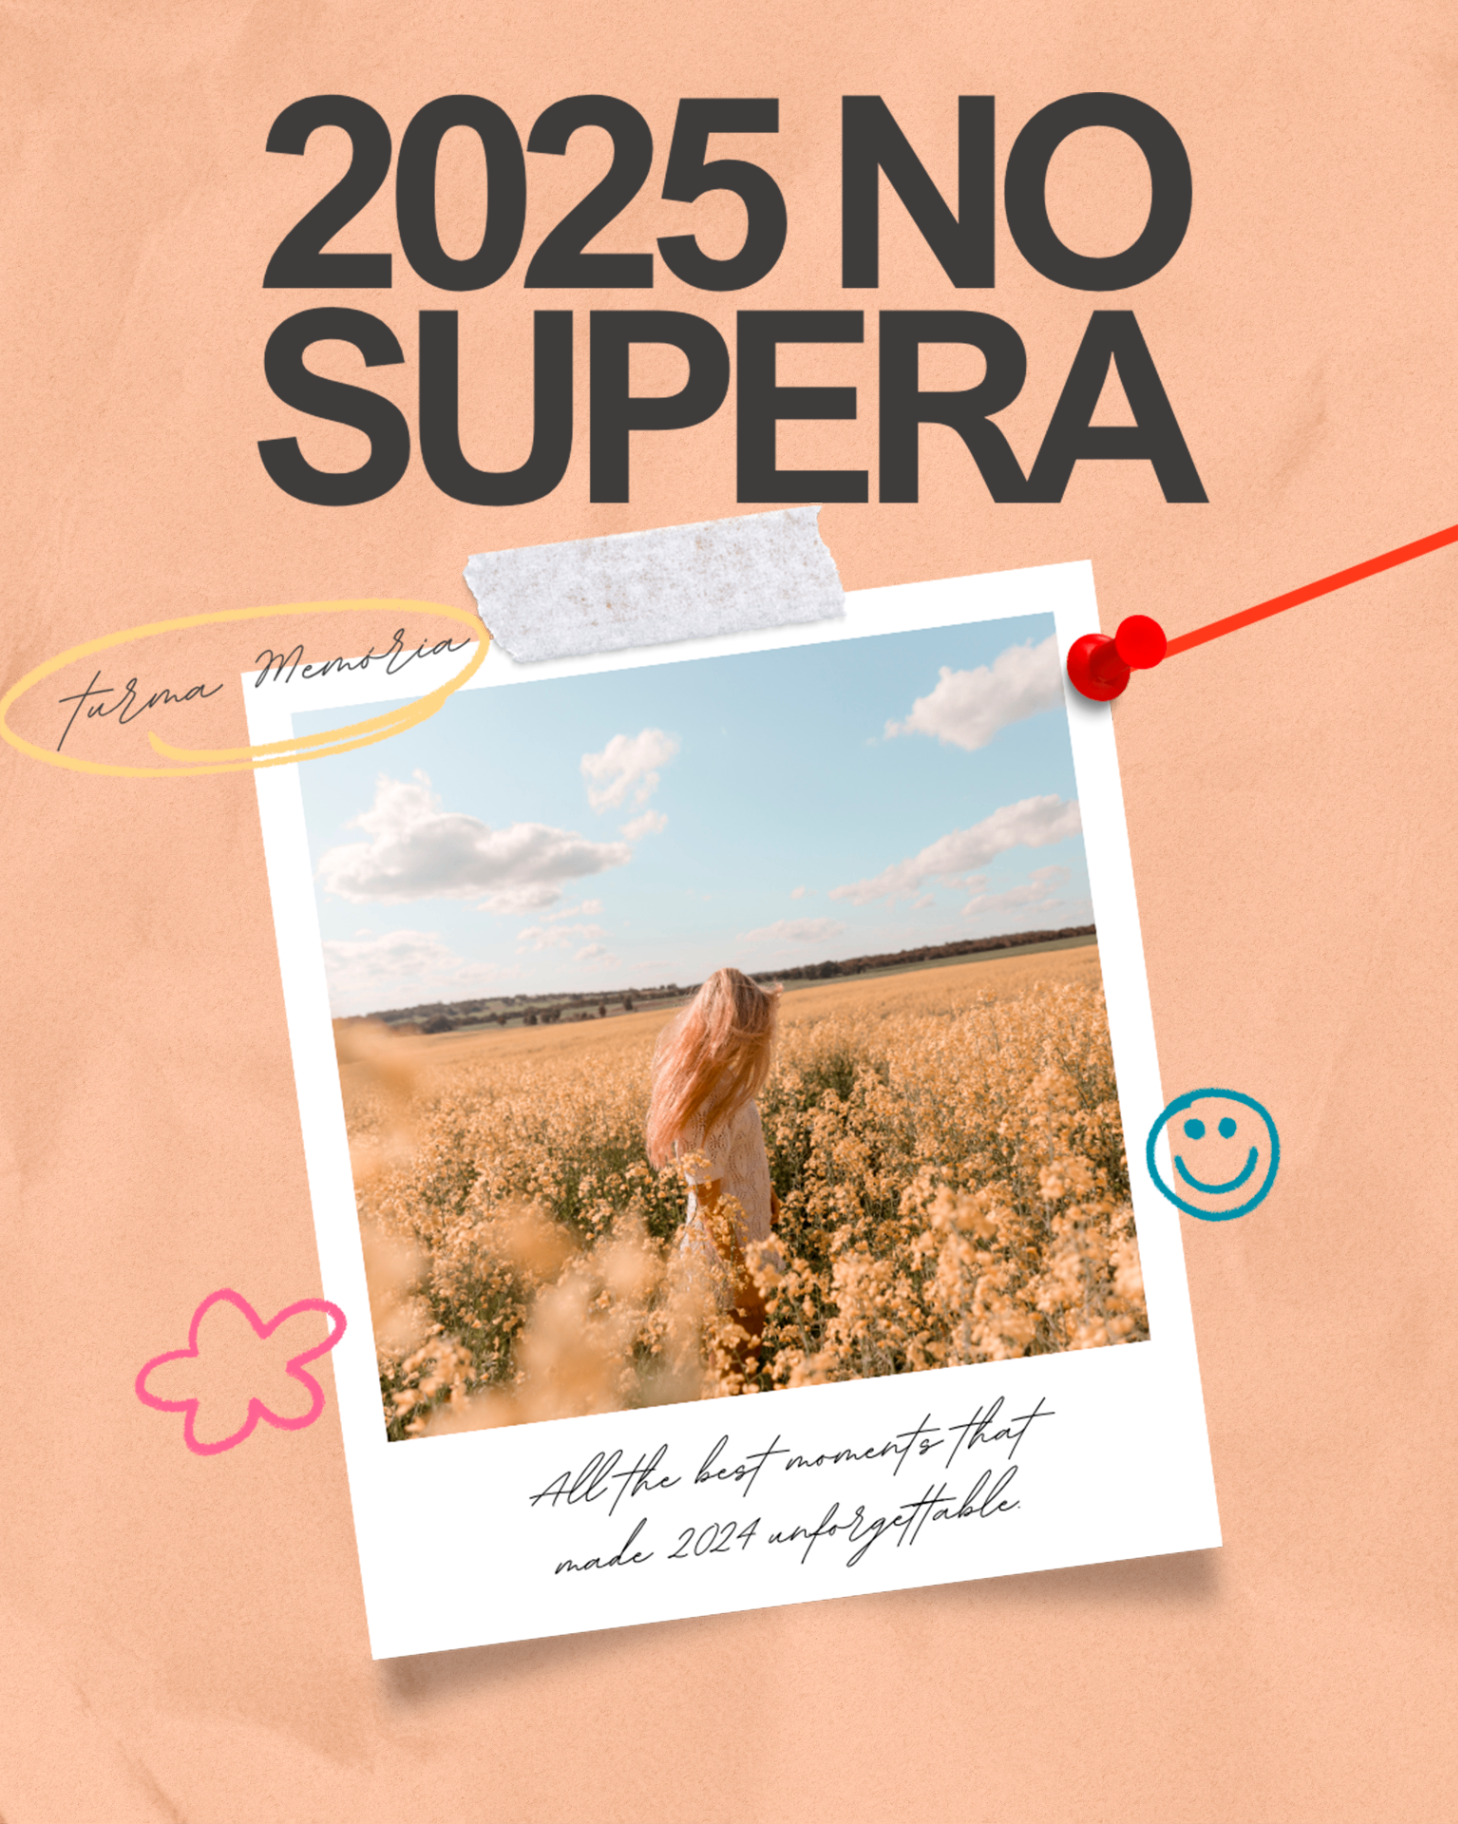
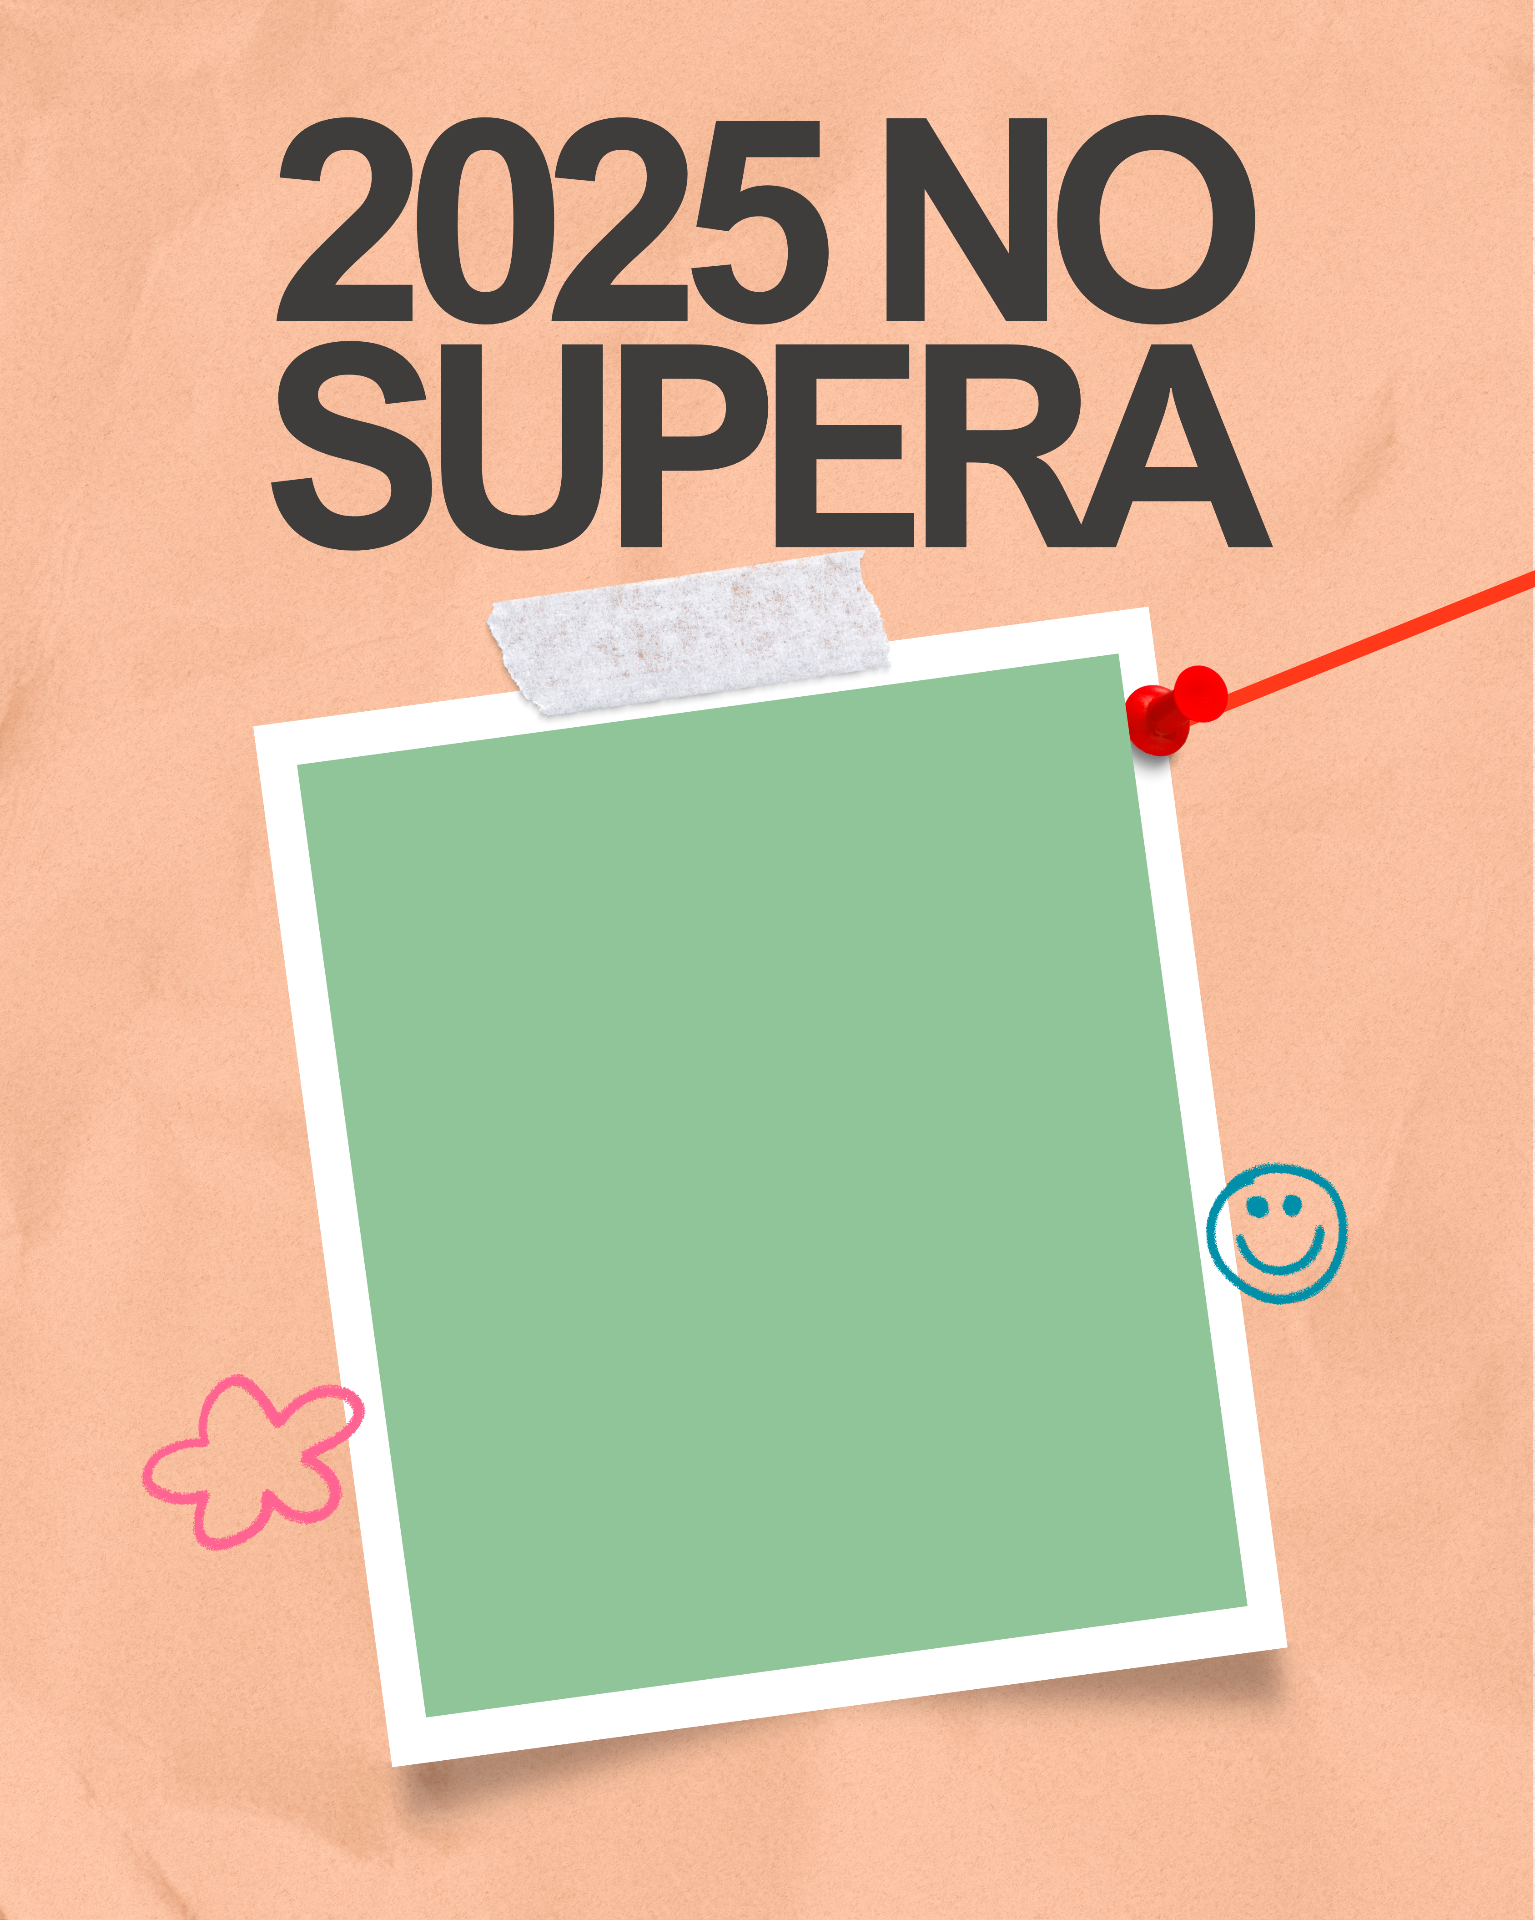
Update template image

diff --git a/src/pages/DevolutivaFimAno.tsx b/src/pages/DevolutivaFimAno.tsx
@@ -162,6 +162,15 @@ const DevolutivaFimAno: React.FC = () => {
             alt="2025 no Supera - Devolutiva de Fim de Ano" 
             className="template-image"
           />
+          
+          {/* Foto do aluno/funcionário sobreposta */}
+          {pessoaSelecionada?.foto_url && (
+            <img
+              src={pessoaSelecionada.foto_url}
+              alt={`Foto de ${pessoaSelecionada.nome}`}
+              className="foto-aluno-overlay"
+            />
+          )}
         </div>
       </div>
     </div>

diff --git a/src/pages/devolutiva-fim-ano.css b/src/pages/devolutiva-fim-ano.css
@@ -31,6 +31,17 @@
   object-fit: cover;
 }
 
+/* Foto do aluno sobreposta no quadrado verde */
+.foto-aluno-overlay {
+  position: absolute;
+  top: 32%;
+  left: 19%;
+  width: 50%;
+  height: 45%;
+  object-fit: cover;
+  transform: rotate(-3deg);
+}
+
 /* Estilos de impressão */
 @media print {
   body {
